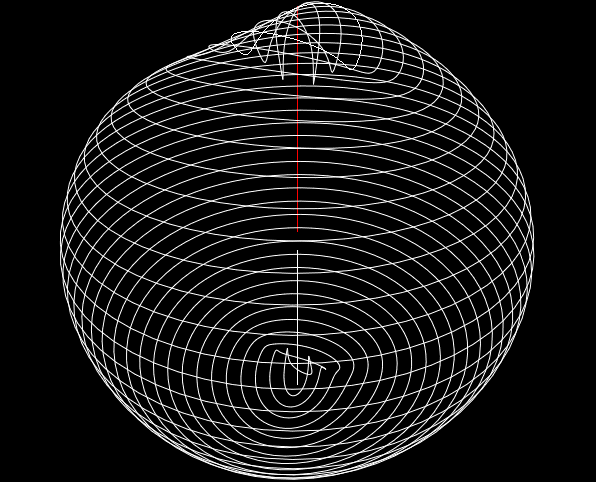
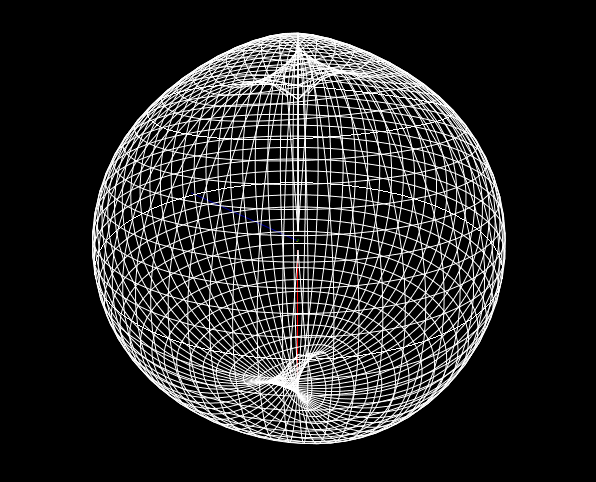
Обновлено 3DView.

diff --git a/dev/analyzedata.py b/dev/analyzedata.py
@@ -7,43 +7,71 @@ class AnalyzeData():
     def __init__(self, parent, fname):
         self.parent = parent
         self.fname = fname
-        self.read_file(90)
+        self.read_file(90, None)
         self.mindB = self.dB.min()
         for i in range(85, -91, -5):
-            self.read_file(i)
+            self.read_file(i, None)
             if self.mindB > self.dB.min():
                 self.mindB = self.dB.min()
         
         
-    def read_file(self, phi):
+    def read_file(self, theta, phi):
         '''
             Метод для чтения данных из файла.
         '''
-        delta = self.delta
-        self.theta = np.zeros(72 + (73 * delta) + 2)
-        self.dB = np.zeros(72 + (73 * delta) + 2)
-        count = 1 + delta
-        k = (phi + 90) / 5
-        with open(self.fname) as t:
-            for i, line in enumerate(t):
-                if i > 72 * k + 1 and i < 74 + 72 * k:
-                    nums = []
-                    num = ""
-                    for sym in line:
-                        if sym != ' ':
-                            num += sym
-                        elif len(num) > 0 and sym == ' ':
-                            nums.append(float(num))
-                            num = ""
-                    self.theta[count] = nums[0]
-                    self.dB[count] = nums[2]
-                    count += (delta + 1)
-        t.close()
-        for i in range(1, delta + 2):
-            self.theta[i - 1] = self.theta[delta + 1]
-            self.dB[i - 1] = self.dB[delta + 1]
-            self.dB[-i] = self.dB[-delta-2]
-            self.theta[-i] = self.theta[-delta-2]
+        if phi is None:
+            delta = self.delta
+            self.theta = np.zeros(72 + (73 * delta) + 2)
+            self.dB = np.zeros(72 + (73 * delta) + 2)
+            count = 1 + delta
+            k = (theta + 90) / 5
+            with open(self.fname) as t:
+                for i, line in enumerate(t):
+                    if i > 72 * k + 1 and i < 74 + 72 * k:
+                        nums = []
+                        num = ""
+                        for sym in line:
+                            if sym != ' ':
+                                num += sym
+                            elif len(num) > 0 and sym == ' ':
+                                nums.append(float(num))
+                                num = ""
+                        self.theta[count] = nums[0]
+                        self.dB[count] = nums[2]
+                        count += (delta + 1)
+            t.close()
+            for i in range(1, delta + 2):
+                self.theta[i - 1] = self.theta[delta + 1]
+                self.dB[i - 1] = self.dB[delta + 1]
+                self.dB[-i] = self.dB[-delta-2]
+                self.theta[-i] = self.theta[-delta-2]
+        else:
+            if phi == 165:
+                print("OK")
+            self.theta = np.zeros(37)
+            self.dB = np.zeros(37)
+            k = (phi + 180) / 5
+            print(k)
+            count = 0
+            with open(self.fname) as t:
+                for i, line in enumerate(t):
+                    if i == 0:
+                        print("Yes")
+                    if (i - 2) % 72 == k and i >= 2:
+                        nums = []
+                        num = ""
+                        for sym in line:
+                            if sym != ' ':
+                                num += sym
+                            elif len(num) > 0 and sym == ' ':
+                                nums.append(float(num))
+                                num = ""
+                        if phi == -180:
+                            print(nums)
+                        self.theta[count] = nums[1]
+                        self.dB[count] = nums[2]
+                        count += 1
+            t.close()
 
     def use_interpolation(self):
         '''
@@ -98,7 +126,7 @@ class AnalyzeData():
         return out
                 
     def analyze(self, phi):
-        self.read_file(phi)
+        self.read_file(phi, None)
         if self.delta:
             self.use_interpolation()
         
@@ -112,20 +140,32 @@ class AnalyzeData():
         y[-1] = y[0]
         return x, y
     
-    def to_spherical(self, phi):
-        x = np.zeros(self.dB.size + 1)
-        y = np.zeros(self.dB.size + 1)
-        z = np.zeros(self.dB.size + 1)
-        self.analyze(phi)
-        x[:-1] = (self.dB + 5 - self.mindB) * np.cos(self.theta * pi / 180) * cos(phi * pi / 180) 
-        y[:-1] = (self.dB + 5 - self.mindB) * np.sin(self.theta * pi / 180) * cos(phi * pi / 180)
-        z[:-1] = (self.dB + 5 - self.mindB) * sin(phi * pi / 180)
-        x[-1] = x[0]
-        y[-1] = y[0]
-        z[-1] = z[0]
+    def to_spherical(self, phi, theta = None):
+        if theta is None:
+            self.analyze(phi)
+            x = np.zeros(self.dB.size + 1)
+            y = np.zeros(self.dB.size + 1)
+            z = np.zeros(self.dB.size + 1)
+            x[:-1] = (self.dB + 5 - self.mindB) * np.cos(self.theta * pi / 180) * cos(phi * pi / 180) 
+            y[:-1] = (self.dB + 5 - self.mindB) * np.sin(self.theta * pi / 180) * cos(phi * pi / 180)
+            z[:-1] = (self.dB + 5 - self.mindB) * sin(phi * pi / 180)
+            x[-1] = x[0]
+            y[-1] = y[0]
+            z[-1] = z[0]
+        else:
+            self.read_file(None, theta)
+            x = (self.dB + 5 - self.mindB) * cos(theta * pi / 180) * np.cos(self.theta * pi / 180) 
+            y = (self.dB + 5 - self.mindB) * sin(theta * pi / 180) * np.cos(self.theta * pi / 180)
+            z = (self.dB + 5 - self.mindB) * np.sin(self.theta * pi / 180)
         return np.vstack([x, y, z]).transpose()
         
-
+    def to_polygon(self, phi):
+        self.read_file(None, phi)
+        x = (self.dB + 5 - self.mindB) * np.cos(phi * pi / 180) * np.cos(self.theta * pi / 180)
+        y = (self.dB + 5 - self.mindB) * np.sin(phi * pi / 180) * np.cos(self.theta * pi / 180)
+        z = ((self.dB + 5 - self.mindB) ** 2 - x.reshape(x.size, 1) ** 2 - y ** 2) ** .5
+        print(z.ndim) 
+        return x, y, z
     
     delta = 0
     

diff --git a/GUI/importdata.py b/GUI/importdata.py
@@ -1,5 +1,5 @@
 from PyQt5.QtWidgets import QWidget, QLabel, QTabWidget, QLineEdit, QPushButton, QCheckBox, QListWidget, QFileDialog
-from PyQt5.QtGui import QPixmap, QFont
+from PyQt5.QtGui import QPixmap, QFont, QVector3D
 from PyQt5.QtCore import Qt
 from dev.analyzedata import AnalyzeData
 from os import system
@@ -36,12 +36,27 @@ class ImportData(QWidget):
         self.graph2.getPlotItem().hideAxis('bottom')
         
         self.graph3d = gl.GLViewWidget(self)
-        self.traces = {}
+        self.tracesTheta = {}
+        self.tracesPhi = {}
+        
+        self.surface = {}
+        
         self.previous = -90
         for i in range(90, -91, -5):
-            self.traces[i] = gl.GLLinePlotItem(pos = self.data.to_spherical(i), antialias = True)
-            self.graph3d.addItem(self.traces[i])
+            self.tracesTheta[i] = gl.GLLinePlotItem(pos = self.data.to_spherical(i), antialias = True)
+            self.graph3d.addItem(self.tracesTheta[i])
+        for i in range(-180, 176, 5):
+            self.tracesPhi[i] = gl.GLLinePlotItem(pos = self.data.to_spherical(i, i), antialias = True)
+            self.graph3d.addItem(self.tracesPhi[i])
 
+
+
+
+        
+        
+        
+        
+        
         self.graph3d.resize(600, 512)
         self.graph1.resize(600, 512)
         self.graph2.resize(600, 512)
@@ -149,8 +164,8 @@ class ImportData(QWidget):
         self.graph2.getPlotItem().plot(tmp[0], tmp[1])
         
         
-        self.traces[self.previous].setData(pos = self.data.to_spherical(self.previous), color = pg.glColor((255, 255, 255))) 
-        self.traces[phi].setData(pos = self.data.to_spherical(phi), color = pg.glColor((255, 0, 0)))
+        self.tracesTheta[self.previous].setData(pos = self.data.to_spherical(self.previous), color = pg.glColor((255, 255, 255))) 
+        self.tracesTheta[phi].setData(pos = self.data.to_spherical(phi), color = pg.glColor((255, 0, 0)))
         
          
         self.main_length.setText(str(self.data.get_length()) + "°")
